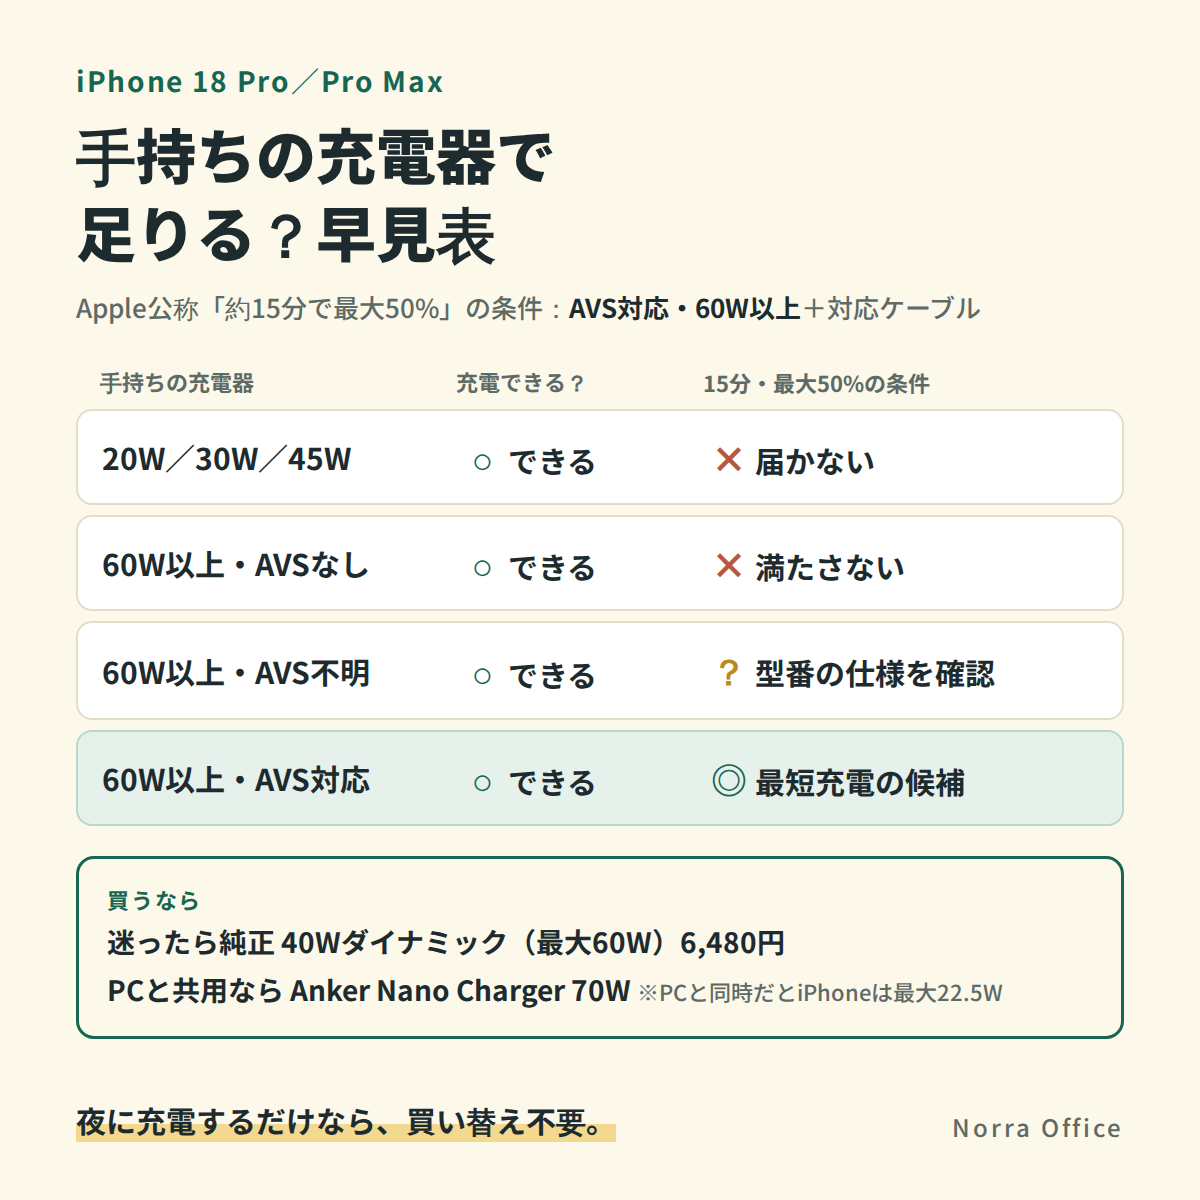
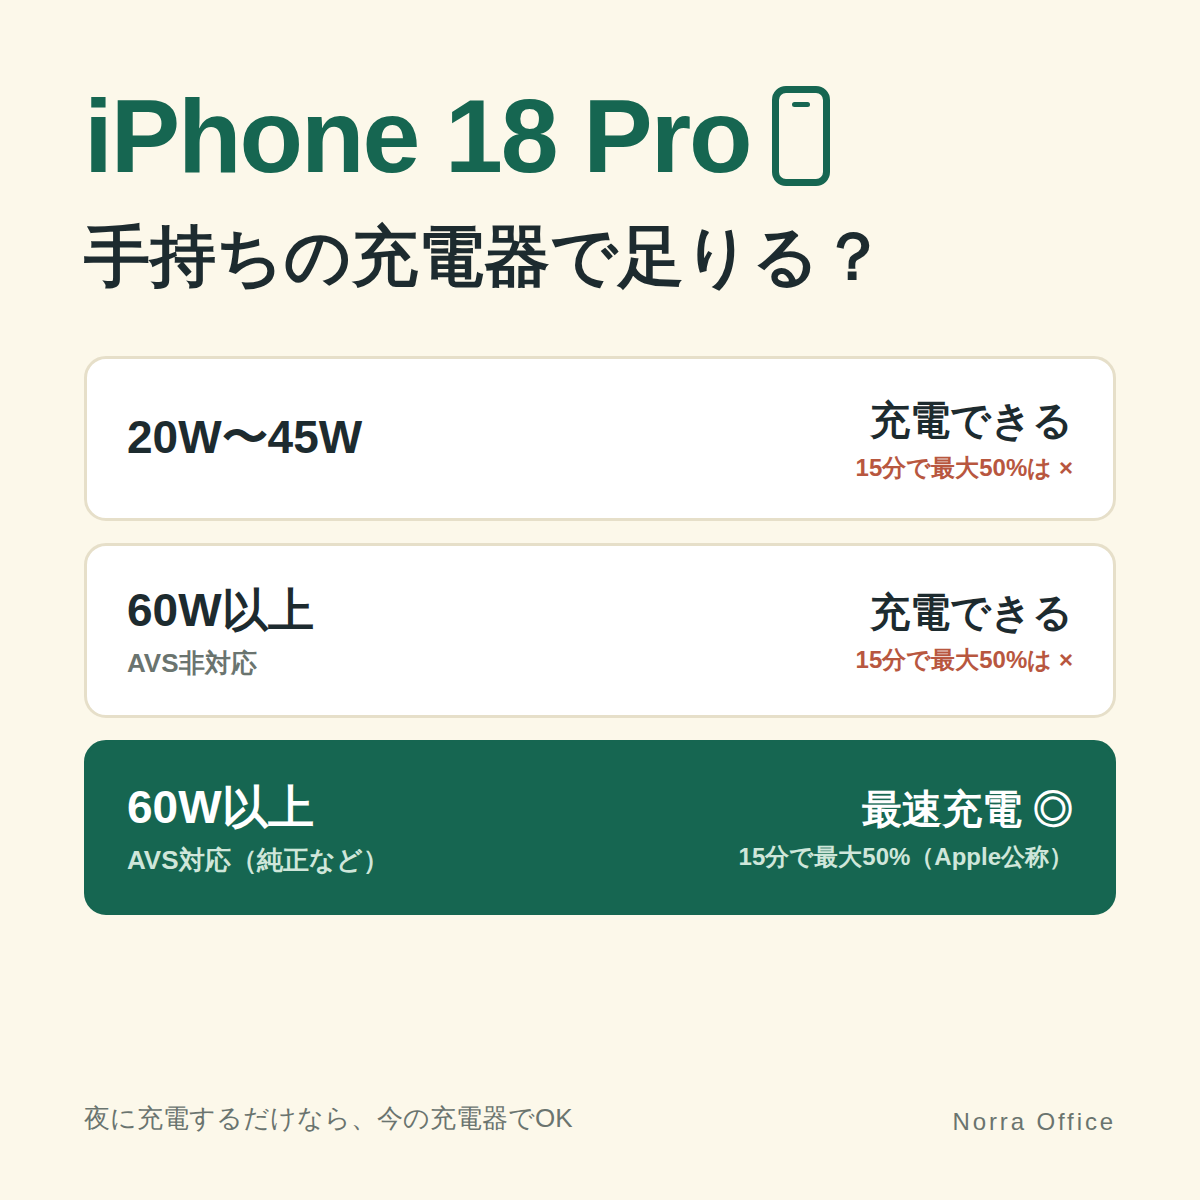
Simplify charger quick-reference image and emphasize iPhone 18 Pro
Claude-Session: https://claude.ai/code/session_01FA84kj1LS6erLav3U9bemc

diff --git a/x-posts/charger-chart.html b/x-posts/charger-chart.html
@@ -1,45 +1,49 @@
 <!DOCTYPE html>
 <html lang="ja"><head><meta charset="UTF-8">
-<link href="https://fonts.googleapis.com/css2?family=Noto+Sans+JP:wght@500;700;900&display=swap" rel="stylesheet">
+<link href="https://fonts.googleapis.com/css2?family=Noto+Sans+JP:wght@500;700;900&family=Inter:wght@700;800&display=swap" rel="stylesheet">
 <style>
-  :root{--paper:#fcf8ea;--ink:#1d2b2f;--muted:#5d6a66;--green:#166651;--line:#e3dcc6;--ok:#166651;--ng:#b8573f;--warn:#b98a1c}
+  :root{--paper:#fcf8ea;--ink:#1d2b2f;--muted:#6a746f;--green:#166651;--ng:#b8573f;--line:#e6dfc9}
   *{margin:0;padding:0;box-sizing:border-box}
-  body{width:1200px;height:1200px;background:var(--paper);font-family:"Noto Sans JP",sans-serif;color:var(--ink);padding:60px 76px 56px;display:flex;flex-direction:column}
-  .kicker{font-size:28px;font-weight:700;color:var(--green);letter-spacing:.06em}
-  h1{font-size:60px;font-weight:900;line-height:1.3;margin-top:14px}
-  .rule{margin-top:18px;font-size:26px;color:var(--muted);font-weight:500}
-  .rule b{color:var(--ink)}
-  table{margin-top:28px;width:100%;border-collapse:separate;border-spacing:0 10px}
-  th{font-size:22px;color:var(--muted);font-weight:700;text-align:left;padding:0 24px}
-  td{background:#fff;font-size:30px;font-weight:700;padding:20px 24px;border-top:2px solid var(--line);border-bottom:2px solid var(--line)}
-  td:first-child{border-left:2px solid var(--line);border-radius:16px 0 0 16px;width:34%}
-  td:last-child{border-right:2px solid var(--line);border-radius:0 16px 16px 0}
-  .mk{display:inline-block;width:52px;text-align:center;font-weight:900;font-size:36px}
-  .ok{color:var(--ok)} .ng{color:var(--ng)} .warn{color:var(--warn)}
-  .best td{background:#e6f1eb;border-color:#b9d8c7}
-  .buy{margin-top:20px;border:3px solid var(--green);border-radius:18px;padding:22px 28px;font-size:28px;font-weight:700;line-height:1.7}
-  .buy .lbl{color:var(--green);font-size:22px;letter-spacing:.08em;display:block}
-  .buy small{font-size:22px;color:var(--muted);font-weight:500}
-  .note{margin-top:auto;display:flex;justify-content:space-between;align-items:flex-end}
-  .note p{font-size:30px;font-weight:700}
-  .note p span{background:linear-gradient(transparent 60%,#f3d98f 60%)}
-  .brand{font-size:24px;color:var(--muted);letter-spacing:.12em;font-weight:500}
+  body{width:1200px;height:1200px;background:var(--paper);font-family:"Noto Sans JP",sans-serif;color:var(--ink);padding:84px 84px 64px;display:flex;flex-direction:column}
+  .model{display:flex;align-items:center;gap:22px}
+  .model b{font-family:Inter,sans-serif;font-weight:800;font-size:104px;letter-spacing:-.02em;color:var(--green);line-height:1}
+  .phone{width:58px;height:100px;border:7px solid var(--green);border-radius:14px;position:relative}
+  .phone:after{content:"";position:absolute;left:50%;top:9px;width:18px;height:5px;margin-left:-9px;border-radius:3px;background:var(--green)}
+  h1{margin-top:26px;font-size:66px;font-weight:900;line-height:1.3}
+  .rows{margin-top:56px;display:flex;flex-direction:column;gap:22px}
+  .row{display:flex;align-items:center;justify-content:space-between;background:#fff;border:3px solid var(--line);border-radius:22px;padding:34px 40px}
+  .row .w{font-size:46px;font-weight:900}
+  .row .w small{display:block;font-size:26px;font-weight:700;color:var(--muted);margin-top:4px}
+  .row .r{font-size:40px;font-weight:900;text-align:right}
+  .row .r small{display:block;font-size:24px;font-weight:700;color:var(--muted);margin-top:4px}
+  .row .r small.ng{color:var(--ng)}
+  .best{background:var(--green);border-color:var(--green);color:#fff}
+  .best .w small,.best .r small{color:#cfe6da}
+  .best .r{color:#fff}
+  .foot{margin-top:auto;display:flex;justify-content:space-between;align-items:flex-end}
+  .foot p{font-size:26px;color:var(--muted);font-weight:500}
+  .foot .brand{font-size:24px;letter-spacing:.12em}
 </style></head><body>
-  <div class="kicker">iPhone 18 Pro／Pro Max</div>
-  <h1>手持ちの充電器で<br>足りる？早見表</h1>
-  <p class="rule">Apple公称「約15分で最大50%」の条件：<b>AVS対応・60W以上</b>＋対応ケーブル</p>
-  <table>
-    <tr><th>手持ちの充電器</th><th>充電できる？</th><th>15分・最大50%の条件</th></tr>
-    <tr><td>20W／30W／45W</td><td><span class="mk ok">○</span>できる</td><td><span class="mk ng">×</span>届かない</td></tr>
-    <tr><td>60W以上・AVSなし</td><td><span class="mk ok">○</span>できる</td><td><span class="mk ng">×</span>満たさない</td></tr>
-    <tr><td>60W以上・AVS不明</td><td><span class="mk ok">○</span>できる</td><td><span class="mk warn">？</span>型番の仕様を確認</td></tr>
-    <tr class="best"><td>60W以上・AVS対応</td><td><span class="mk ok">○</span>できる</td><td><span class="mk ok">◎</span>最短充電の候補</td></tr>
-  </table>
-  <div class="buy"><span class="lbl">買うなら</span>
-    迷ったら純正 40Wダイナミック（最大60W）6,480円<br>
-    PCと共用なら Anker Nano Charger 70W <small>※PCと同時だとiPhoneは最大22.5W</small></div>
-  <div class="note">
-    <p><span>夜に充電するだけなら、買い替え不要。</span></p>
-    <div class="brand">Norra Office</div>
+  <div class="model"><b>iPhone 18 Pro</b><span class="phone"></span></div>
+  <h1>手持ちの充電器で足りる？</h1>
+
+  <div class="rows">
+    <div class="row">
+      <div class="w">20W〜45W</div>
+      <div class="r">充電できる<small class="ng">15分で最大50%は ×</small></div>
+    </div>
+    <div class="row">
+      <div class="w">60W以上<small>AVS非対応</small></div>
+      <div class="r">充電できる<small class="ng">15分で最大50%は ×</small></div>
+    </div>
+    <div class="row best">
+      <div class="w">60W以上<small>AVS対応（純正など）</small></div>
+      <div class="r">最速充電 ◎<small>15分で最大50%（Apple公称）</small></div>
+    </div>
+  </div>
+
+  <div class="foot">
+    <p>夜に充電するだけなら、今の充電器でOK</p>
+    <p class="brand">Norra Office</p>
   </div>
 </body></html>
